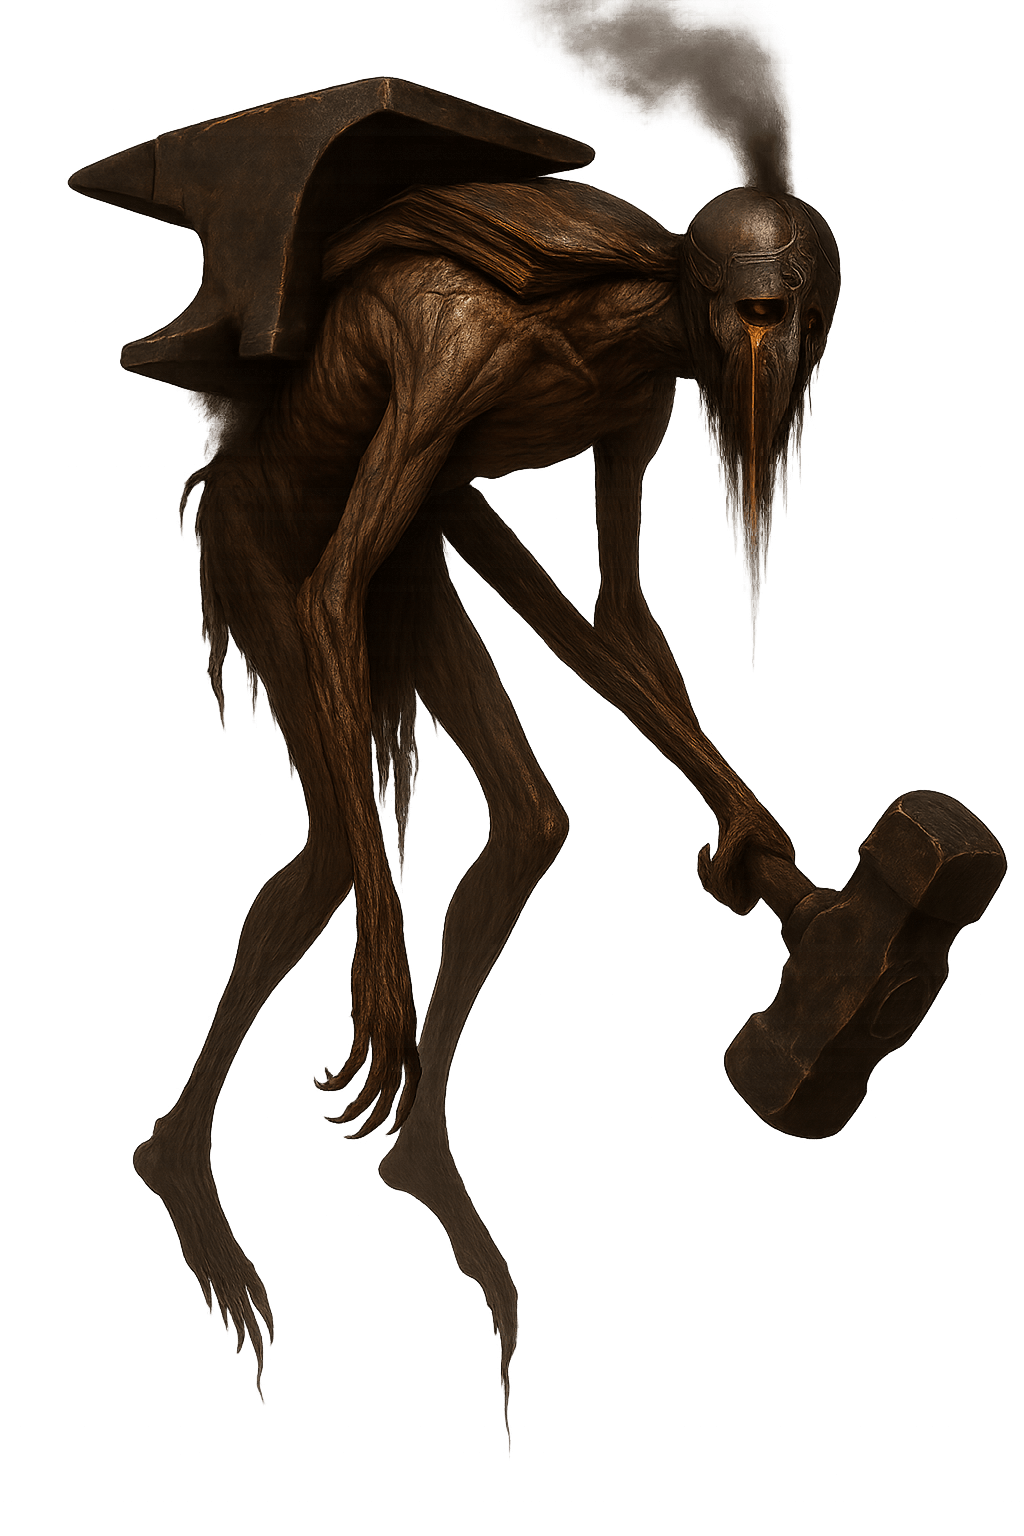
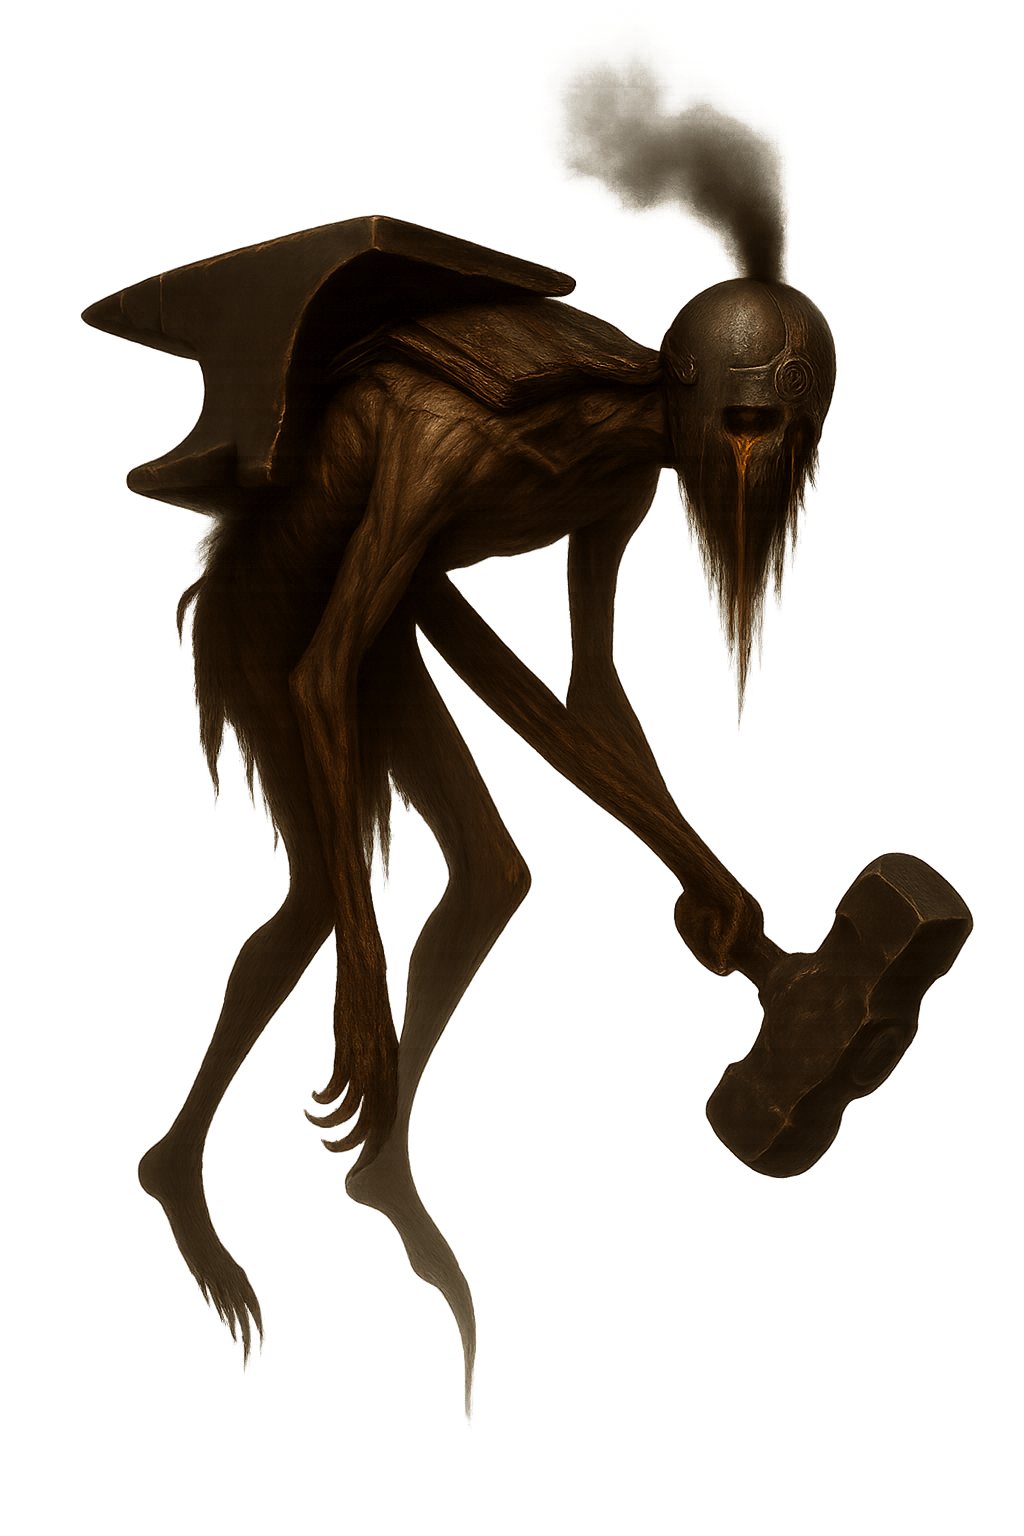
nnuevos personajes y cambiosvarios

diff --git a/script.js b/script.js
@@ -1,49 +1,132 @@
-// ===================================================================================
-// CONFIGURACIÓN - ¡AQUÍ ES DONDE PONÉS TUS DATOS!
-// ===================================================================================
 const JEFES = [
     {   
         id: 'horrax',
-        nombre: "Horrax, el Vástago de la Escoria", 
+        nombre: "Horrax, el Vástago de la Escoria",
         imagenUrl: 'img/horrax1.png',
         fondoUrl: 'img/horraxBg.png',
-        lore: "Horrax no fue derrotado por un enemigo, sino por su propio martillo. En su obsesión por la rutina inquebrantable, trató su espíritu como hierro y su voluntad como fuego, golpeándose a sí mismo hasta quebrarse. Representa el burnout y la disciplina tóxica, el recordatorio de que la verdadera fuerza no reside en la resistencia infinita, sino en el equilibrio entre el esfuerzo y el descanso."
+        lore: `Horrax no fue derrotado por un enemigo, sino por su propio martillo. En su obsesión por la rutina inquebrantable, trató su espíritu como hierro y su voluntad como fuego, golpeándose a sí mismo hasta quebrarse.
+        <br>
+        Representa el burnout y la disciplina tóxica, el recordatorio de que la verdadera fuerza no reside en la resistencia infinita, sino en el equilibrio entre el esfuerzo y el descanso.
+        <br>
+        Se dice que fue el herrero que forjó las primeras cadenas de <strong>Nyr</strong>, sin saber que forjaba su propia prisión.`,
+        color: '#ff6b35'
     },
-    { 
+    {
         id: 'alberic',
         nombre: "Alberic, el Escriba sin Rostro", 
         imagenUrl: 'img/alberic.png',        
         fondoUrl: 'img/albericBg.png',
-        lore:'Alberic fue un erudito que buscó el conocimiento absoluto, pero en su afán olvidó que el saber no es un tesoro para ser acumulado, sino una herramienta para ser usada. Ahora es una prisión de su propia biblioteca, un eco de la procrastinación que nace de la sobrecarga de información. Cada golpe contra él es un acto de decisión, una página leída en lugar de apilada, una idea ejecutada en lugar de solo pensada.'
+        lore: `Alberic fue un erudito que buscó el conocimiento absoluto, pero en su afán olvidó que el saber no es un tesoro para ser acumulado, sino una herramienta para ser usada.
+        <br>
+        Ahora es una prisión de su propia biblioteca, un eco de la procrastinación que nace de la sobrecarga de información. Cada golpe contra él es un acto de decisión, una página leída en lugar de apilada, una idea ejecutada en lugar de solo pensada.
+        <br>
+        Entre sus pergaminos yacen los diseños incompletos de las máscaras que <strong>Theron</strong> tanto anhela, y los registros de cada visión que <strong>Lysandra</strong> no pudo evitar ver.`,
+        color: '#4ecdc4'
     },
-    { 
+    {
         id: 'morwenna',
-        nombre: "Morwenna, Madre de los Brotes Marchitos", 
+        nombre: "Morwenna, Madre de los Brotes Marchitos",
         imagenUrl: 'img/morwenna.png',        
         fondoUrl: 'img/morwennaBg.png',
-        lore:'Morwenna fue una vez la guardiana de las pasiones y los sueños incipientes. Pero por cada talento no cultivado, por cada idea abandonada, una de sus flores se marchitó. Ahora es un monumento al potencial perdido y a la apatía que crece sobre los jardines descuidados del alma. Derrotarla es un acto de reencuentro: regar las semillas de la vieja inspiración o arrancar las malas hierbas del arrepentimiento para plantar algo nuevo.'
+        lore: `Morwenna fue una vez la guardiana de las pasiones y los sueños incipientes. Pero por cada talento no cultivado, por cada idea abandonada, una de sus flores se marchitó.
+        <br>
+        Cada camino que <strong>Kaelen</strong> no tomó hizo caer un pétalo de su jardín, y cada distracción de <strong>Maro</strong> alejó a otra semilla de su potencial.
+        <br>
+        Ahora es un monumento al potencial perdido y a la apatía que crece sobre los jardines descuidados del alma. Derrotarla es un acto de reencuentro: regar las semillas de la vieja inspiración o arrancar las malas hierbas del arrepentimiento para plantar algo nuevo.`,
+        color: '#a8e6cf'
     },
-    { 
+    {
         id: 'lysandra',
-        nombre: "Lysandra, la Vidente Estancada", 
+        nombre: "Lysandra, la Vidente Estancada",
         imagenUrl: 'img/lysandra.png',        
         fondoUrl: 'img/lysandraBg.png',
-        lore:'Condenada a ver todos los hilos del tiempo, Lysandra se ahogó en ellos. Obsesionada con los errores del pasado y aterrorizada por las infinitas posibilidades del futuro, perdió la capacidad de existir en el único momento que importa: el ahora. Luchar contra ella es un ejercicio de presencia, un juramento para anclar la mente en el presente y actuar, sin el peso de lo que fue ni la ansiedad de lo que será.'
+        lore: `Condenada a ver todos los hilos del tiempo, Lysandra se ahogó en ellos.
+        <br>
+        En sus visiones contempló el ascenso y caída de <strong>Horrax</strong>, presenció cada indecisión de <strong>Kaelen</strong> como un universo paralelo, y vio cómo las cadenas de <strong>Nyr</strong> se tejían hilo a hilo.
+        <br>
+        Obsesionada con los errores del pasado y aterrorizada por las infinitas posibilidades del futuro, perdió la capacidad de existir en el único momento que importa: el ahora. Luchar contra ella es un ejercicio de presencia, un juramento para anclar la mente en el presente y actuar, sin el peso de lo que fue ni la ansiedad de lo que será.`,
+        color: '#9d4edd'
     },
-    { 
+    {
         id: 'aurelian',
-        nombre: "Aurelian, El Juez Saliente", 
+        nombre: "Aurelian, El Juez Saliente",
         imagenUrl: 'img/aurelian.png',        
         fondoUrl: 'img/aurelianBg.png',
-        lore:'Aurelian es la manifestación del Síndrome del Impostor y el miedo paralizante al juicio ajeno. No te ataca directamente, sino que te aplasta con el peso de tu propia autocrítica. Es el miedo a no ser suficiente, a ser "descubierto" como un fraude. Se sienta en silencio, observando, y su arma principal es un gran espejo que no refleja tu imagen, sino una versión grotesca y fallida de tus mayores inseguridades. La batalla contra él es una prueba de confianza en tu propio trabajo y en tu propio valor, a pesar de las imperfecciones.'
+        lore: `Aurelian es la manifestación del Síndrome del Impostor y el miedo paralizante al juicio ajeno.
+        <br>
+        Su espejo refleja no solo tus inseguridades, sino también los ecos de <strong>Theron</strong> buscando perfección y los fantasmas de las elecciones que <strong>Kaelen</strong> nunca hizo.
+        <br>
+        No te ataca directamente, sino que te aplasta con el peso de tu propia autocrítica. Es el miedo a no ser suficiente, a ser "descubierto" como un fraude. Se sienta en silencio, observando, y su arma principal es un gran espejo que no refleja tu imagen, sino una versión grotesca y fallida de tus mayores inseguridades.`,
+        color: '#1D2522'
     },
-    { 
+    {
         id: 'maro',
-        nombre: "Maro, el Bufón Dorado", 
+        nombre: "Maro, el Bufón Dorado",
         imagenUrl: 'img/maro.png',        
         fondoUrl: 'img/maroBg.png',
-        lore:'Maro es la encarnación de la distracción y la gratificación instantánea. No es un monstruo de fuerza bruta, sino un ladrón sutil que roba tu recurso más preciado: el tiempo y el foco. Se presenta como una figura juguetona y brillante, ofreciendo baratijas luminosas (el equivalente a notificaciones, videos cortos y el scroll infinito) que son placenteras en el momento pero te dejan vacío y con el día perdido. Su batalla no es un combate directo, sino una lucha por mantener la atención en tu objetivo mientras él llena la arena con señuelos irresistibles.'
+        lore: `Maro es la encarnación de la distracción y la gratificación instantánea.
+        <br>
+        Sus baratijas doradas son primas lejanas de la copa vacía de <strong>Vesper</strong>, y su reino de distracciones florece en el mismo suelo donde los brotes de <strong>Morwenna</strong> se marchitan.
+        <br>
+        No es un monstruo de fuerza bruta, sino un ladrón sutil que roba tu recurso más preciado: el tiempo y el foco. Se presenta como una figura juguetona y brillante, ofreciendo baratijas luminosas que son placenteras en el momento pero te dejan vacío y con el día perdido.`,
+        color: '#362C0C'
     },
+    {
+        id: 'vesper',
+        nombre: "Vesper, el Festín Vacío", 
+        imagenUrl: 'img/vesper.png',        
+        fondoUrl: 'img/vesperBg.png',
+        lore: `Vesper fue antaño el alma de la fiesta, el regente de la noche que buscaba su verdad en el brillo de los focos y la aprobación de las miradas vacías.
+        <br>
+        En sus mejores noches, competía con <strong>Maro</strong> por la atención de las almas, sin saber que ambos conducían al mismo vacío.
+        <br>
+        Creó un reino de placer efémero donde las máscaras se usaban para esconder el dolor y cada risa resonaba con un eco hueco. Pero la noche eterna lo consumió; cada brindis se convirtió en un sorbo de veneno, cada danza un paso hacia el agotamiento.
+        <br>
+        Ahora flota, un rey desposeído de su propia voluntad, atrapado entre los fragmentos de un espejo roto y los jirones de una fiesta sin fin.`,
+        color: '#283F52'
+    },
+    {
+        id: 'kaelen',
+        nombre: "Kaelen, el Indeciso", 
+        imagenUrl: 'img/kaelen.png',        
+        fondoUrl: 'img/kaelenBg.png',
+        lore: `Dicen que Kaelen pudo ser el más grande de todos los eruditos, guerreros o videntes.
+        <br>
+        En otra vida, podría haber sido el aprendiz que <strong>Alberic</strong> tanto buscó, o el guerrero que <strong>Horrax</strong> intentó forjar.
+        <br>
+        Pero ante la infinidad de sendas, su voluntad se fracturó. Ahora es un espectro humanoide, una figura trágica y delgada que flota sin rumbo.
+        <br>
+        De su espalda brotan incontables brazos fantasmales, cada uno aferrando el pálido eco de una vocación abandonada: una espada a medio forjar, un pergamino roto, una brújula giratoria, una llave sin cerradura, un mapa rasgado.`,
+        color: '#f3f3f3'
+    },
+    {
+        id: 'nyr',
+        nombre: "Nyr, el Santo Encadenado",
+        imagenUrl: `img/nyr.png`,        
+        fondoUrl: `img/nyrBg.png`,
+        lore: `Nyr personifica la nobleza del servicio corrompida por la ausencia de fronteras.
+        <br>
+        Las cadenas que lo atan fueron forjadas con el mismo hierro que quebró a <strong>Horrax</strong>, y cada eslabón representa una promesa que <strong>Lysandra</strong> vio incumplirse.
+        <br>
+        Es una imponente figura de mármol pálido, un santo anclado en el aire no por su poder, sino por las miles de finas cadenas doradas que perforan su ser, cada una un juramento a una causa ajena.
+        <br>
+        No lucha, solo soporta el tirón infinito de las expectativas. De sus ojos, perpetuamente cerrados, brotan lágrimas de oro líquido, el llanto silencioso de una voluntad entregada a los demás hasta que la propia se desvaneció por completo.`,
+        color: '#362C0C'
+    },
+    {
+        id: 'theron',
+        nombre: "Theron, el Eco de la Perfección",
+        imagenUrl: `img/thereon.png`,        
+        fondoUrl: `img/thereonBg.png`,
+        lore: `Theron nació del murmullo de la comparación, del veneno de "no ser suficiente".
+        <br>
+        Sus máscaras perfectas son la respuesta grotesca al espejo de <strong>Aurelian</strong>, y su búsqueda de la excelencia absoluta es el extremo opuesto de la indecisión de <strong>Kaelen</strong>.
+        <br>
+        Es un eco, una figura humanoide sin rostro propio que habita un panteón de glorias ajenas. Flota erráticamente, intentando imitar la grandeza de las estatuas que lo rodean, pero su cuerpo quebrado siempre le traiciona.
+        <br>
+        En sus múltiples y temblorosas manos, sostiene una colección de máscaras de porcelana exquisitamente elaboradas, cada una representando una perfección inalcanzable. Su tragedia reside en su mirada: los ojos de las máscaras perfectas que sostiene son cuencas vacías que reflejan la nada que siente por dentro.`,
+        color: '#475C55'
+    }
 ];
 
 // Configuración de sonidos (agregá tus archivos en la carpeta sounds/)
@@ -598,6 +681,9 @@ document.addEventListener('DOMContentLoaded', () => {
             backgroundContainer.style.backgroundImage = `url('${currentBoss.fondoUrl}')`;
             bossImage.src = currentBoss.imagenUrl;
             bossName.textContent = currentBoss.nombre;
+
+            applyBossAura(currentBoss.color);
+
         
             // Transición suave al cambiar de pantalla
             lobbyScreen.style.transition = 'opacity 0.8s ease-in-out';
@@ -1003,6 +1089,7 @@ function returnToMenu() {
         updateTimerDisplay(0);
         updateTabTitle(0, 'lobby');
         updateFavicon('lobby');
+        resetBossAura();
     }, 400);
 }
 // Función para actualizar favicon dinámicamente
@@ -1170,16 +1257,19 @@ function createTimerSpark() {
     }
 
         // --- FUNCIONES PARA EL SISTEMA DE LORE ---
-    function showLore() {
-        if (!currentBoss) return;
-        
-        playSound(clickSound);
-        
-        loreTitle.textContent = currentBoss.nombre;
-        loreText.textContent = currentBoss.lore;
-        
-        loreScreen.classList.remove('hidden');
-    }
+// En la función showLore(), cambia esto:
+function showLore() {
+    if (!currentBoss) return;
+    
+    playSound(clickSound);
+    
+    loreTitle.textContent = currentBoss.nombre;
+
+    
+    loreText.innerHTML = currentBoss.lore;
+    
+    loreScreen.classList.remove('hidden');
+}
 
     function hideLore() {
         playSound(clickSound);
@@ -1208,7 +1298,25 @@ function createTimerSpark() {
             }
         }
     }
-
+//fondo url
+function applyBossAura(color) {
+    if (!color) return;
+    
+    // Aplicar el color como drop-shadow y glow
+    bossImage.style.filter = `
+        drop-shadow(0 0 100px rgba(0, 0, 0, 0.3))
+        drop-shadow(0 0 50px ${color}33)
+        drop-shadow(0 0 25px ${color}66)
+        drop-shadow(0 0 10px ${color}99)
+    `;
+    
+    // // También puedes agregar un borde sutil si quieres
+    // bossImage.style.boxShadow = `0 0 30px ${color}40`;
+}
+function resetBossAura() {
+    bossImage.style.filter = 'drop-shadow(0 0 100px rgba(0, 0, 0, 0.3))';
+    bossImage.style.boxShadow = 'none';
+}
 // ===================================================================================
 // NUEVA FUNCIÓN: MOSTRAR VICTORIA ESTILO DARK SOULS
 // ===================================================================================
@@ -1708,7 +1816,7 @@ function showToastify(title, message, type = 'gold', duration = 5000) {
                 <span class="rank-icon">${rank.icon}</span>
                 <div class="rank-info">
                     <h3 class="rank-title"> <b>Rango:</b> ${rank.rango}</h3>
-                    <p class="rank-lore"><i>"${rank.lore}"</i></p>
+                    <p class="rank-lore">${rank.lore}</p>
                 </div>
             </div>
             <hr class="bestiary-divider">

diff --git a/style.css b/style.css
@@ -451,7 +451,7 @@ label {
     
     /* ANIMACIÓN DE RESPIRACIÓN SUTIL */
     animation: backgroundBreath 12s ease-in-out infinite;
-    filter: blur(1px) brightness(0.95) ;
+    /* filter: blur(1px) brightness(0.95) ; */
 }
 
 @keyframes backgroundBreath {
@@ -716,18 +716,21 @@ label {
 
 /* Imagen del jefe */
 #boss-image {
-    max-height: 50vh;  
-    opacity: 1; 
-    transition: all 0.3s ease;
-    filter: drop-shadow(0 0 100px rgba(0, 0, 0, 0.3));
-    transform: none; /* Aseguramos que no herede transform del contenedor */
+    max-height: 50vh;
+    opacity: 1;
+    transition: all 0.5s ease;
+    filter: 
+        drop-shadow(0 0 5px rgba(0, 0, 0, 0.5))
+        drop-shadow(0 0 20px var(--boss-aura-color, rgba(212, 175, 55, 0.5)));
+    transform: none;
     cursor: pointer;
 }
 
-/* Hover de la imagen del jefe */
 #boss-image:hover {
-    transform: scale(1.05); /* Solo escala la imagen, no afecta el centrado */
-    filter: drop-shadow(0 0 30px rgba(212, 175, 55, 0.5)) brightness(1.1);
+    transform: scale(1.05);
+    filter: 
+        /* drop-shadow(0 0 5px rgba(0, 0, 0, 0.5)) */
+        drop-shadow(0 0 25px var(--boss-aura-color, rgba(212, 175, 55, 0.5))) !important;
 }
 
 /* Signos de interrogación en el hover */
@@ -934,7 +937,6 @@ label {
 .message-screen h2 { 
     font-size: clamp(2rem, 8vw, 4rem); 
     text-align: center; 
-    margin-bottom: 2rem;
     text-shadow: 0 0 20px var(--color-gold);
     color: var(--color-gold);
 }
@@ -1208,9 +1210,9 @@ label {
 
 /* MODAL DE LORE */
 .lore-content {
-    width: 60%;
+    width: 55%;
     text-align: center;
-    margin: 2rem 0;
+    /* margin: 2rem 0; */
 }
 
 .lore-image {
@@ -1238,12 +1240,23 @@ label {
     text-shadow: 0 0 15px rgba(212, 175, 55, 0.7);
 }
 #lore-text {
-    color: var(--color-parchment);
+    color: #F5F5F5;
+
     font-size: 1.2rem;
     line-height: 1.7;
     font-family: var(--font-body);
     text-align: center;
     padding: 0 1rem;
+}
+#lore-text strong {
+    font-family: var(--font-body) !important;
+    color: #F5F5F5;
+    font-weight: 700;
+
+
+}
+#lore-text br {
+    /* background-color: #0066CC; */
 }
 /* CONTENEDOR DE PARTÍCULAS DEL TIMER */
 .timer-particles-container {
@@ -2260,29 +2273,10 @@ html, body, * {
 
 /* --- CURSO INTERACTIVO: CÍRCULO DORADO RELLENO --- */
 button, select, a, [data-action], .menu-option, 
-input, textarea, .gold-button, .ghost-button {
+input, textarea, .gold-button, .ghost-button , #boss-image{
[1 lines of base64/hex data omitted]
 }
 
-/* --- CURSO PELIGROSO: CÍRCULO ROJO --- */
-.danger-element, .critical-action, .red-button {
[1 lines of base64/hex data omitted]
-}
-
-/* --- CURSO MÁGICO: CÍRCULO PÚRPURA --- */
-.magic-item, .spell-button, .rune-element {
[1 lines of base64/hex data omitted]
-}
-
-/* --- CURSO INFORMACIÓN: CÍRCULO AZUL --- */
-.info-element, .lore-item {
[1 lines of base64/hex data omitted]
-}
-
-/* --- CURSO ESPERA: CÍRCULO GRIS --- */
-.wait-element, .loading-item {
[1 lines of base64/hex data omitted]
-}
 
 
 /* ====================================================== */

diff --git a/index.html b/index.html
@@ -182,9 +182,12 @@
     <div id="lore-screen" class="screen hidden instructions-modal">
         <div class="modal-content">
             <h2 id="lore-title"></h2>
+            <hr class="bestiary-divider" style="width: 55%; opacity: 0.5;">
             <div class="lore-content" >
                 <p id="lore-text"></p>
             </div>
+            <hr class="bestiary-divider" style="width: 55%; opacity: 0.5;">
+
             <button id="close-lore-btn" class="modal-close-btn">VOLVER AL RITUAL</button>
         </div>
     </div>
